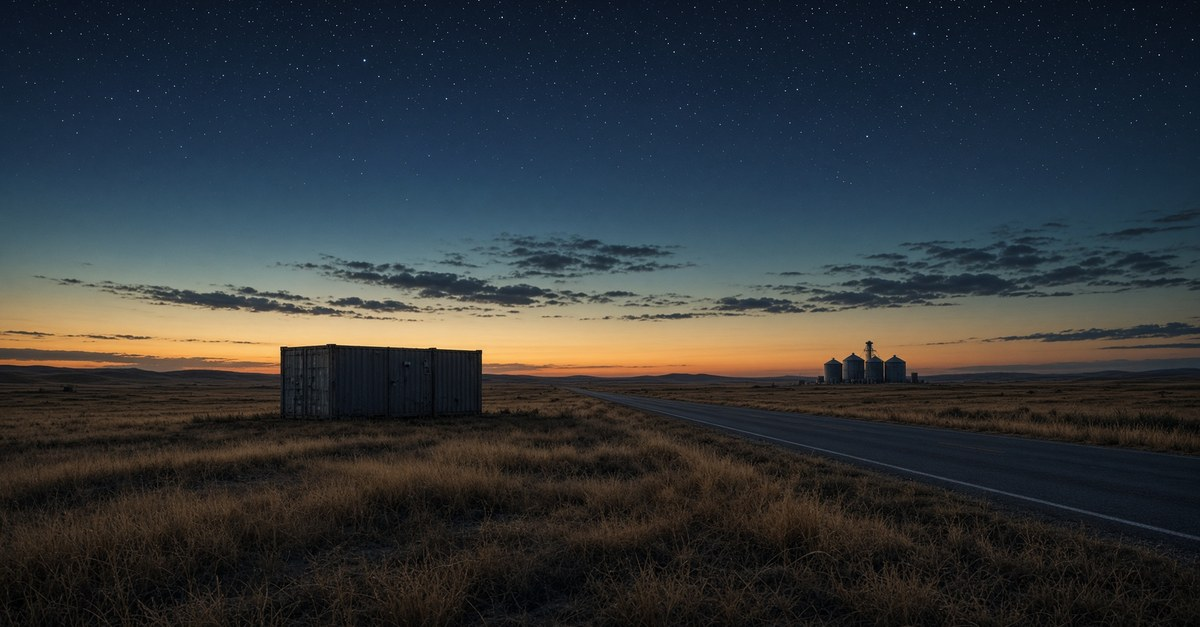
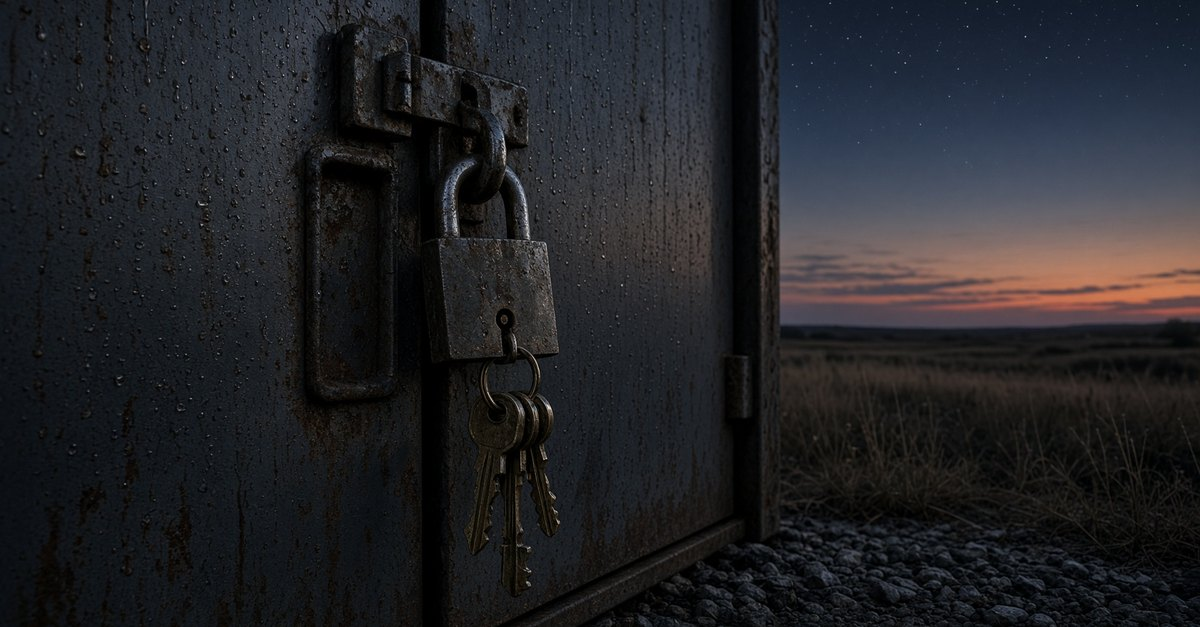
Give each entry its own photograph instead of copying default.jpg
The morning job was cloning the night-prairie fallback onto every new post.
Replace the last three copies, and generate a unique still from the scene
the writer names.

diff --git a/scripts/og.py b/scripts/og.py
@@ -1,32 +1,129 @@
 #!/usr/bin/env python3
-"""Ensure every post has a photograph in public/og. Do not paint type cards.
+"""Give each post its own 1200x627 photograph.
 
-If public/og/{slug}.jpg is missing, copy default.jpg so LinkedIn and the
-index still have an image. Editorial photographs are authored by hand.
+If public/og/{slug}.jpg is missing, or is still a copy of default.jpg,
+fetch a cinematic still from Pollinations using the scene the writer
+emitted (out/latest.json) or the theme's photo line. Crop to OG size.
 """
 
 from __future__ import annotations
 
-import shutil
+import hashlib
+import json
+import re
+import urllib.parse
+import urllib.request
+from io import BytesIO
 from pathlib import Path
+
+from PIL import Image
 
 ROOT = Path(__file__).resolve().parents[1]
 POSTS = ROOT / "src" / "content" / "posts"
 OUT = ROOT / "public" / "og"
 DEFAULT = OUT / "default.jpg"
+LATEST = ROOT / "out" / "latest.json"
+THEMES = ROOT / "themes.json"
+W, H = 1200, 627
+STYLE = (
+    "photoreal cinematic still photograph, 35mm film, no people, no faces, "
+    "no text, no logos, no watermarks, editorial, Oklahoma rural light, quiet"
+)
+
+FALLBACK = {
+    "inclusive-adaptive-capacity": "empty rural clinic waiting room, four teal chairs, reception window, afternoon light through blinds",
+    "sovereignty-tension": "heavy padlock and brass keys on a steel container door, prairie dusk, first stars",
+    "participatory-sensemaking": "empty wood-paneled council room, oval table, papers, a tribal flag in the corner",
+    "one-node-at-a-time": "single dark modular compute container on a gravel pad in an Oklahoma field at sunset",
+    "cost-of-consistency": "locked gray records cabinet and a rubber stamp on a metal desk in a clinic back room",
+    "psychological-safety-as-mediator": "empty hospital conference room, one chair pulled back, light under a closed door",
+    "the-data-moat": "closed lockbox on a pallet in front of a humming server rack inside a container",
+    "equity-centered-flexibility": "empty rural hospital hallway, a gurney against the wall, uneven fluorescent light",
+    "building-from-a-phone": "a phone and a notebook on a kitchen table at night, dark prairie outside the window",
+    "governance-before-compute": "a worn binder of papers on a wooden pallet in front of dark server racks",
+}
+
+
+def digest(path: Path) -> str:
+    return hashlib.sha256(path.read_bytes()).hexdigest()
+
+
+def slug_of(post: Path) -> str:
+    return post.stem
+
+
+def theme_slug(stem: str) -> str:
+    return re.sub(r"^\d{4}-\d{2}-\d{2}-", "", stem)
+
+
+def load_scene(stem: str) -> str:
+    if LATEST.exists():
+        try:
+            data = json.loads(LATEST.read_text())
+            if data.get("slug") == stem and data.get("photo"):
+                return str(data["photo"]).strip()
+        except json.JSONDecodeError:
+            pass
+    if THEMES.exists():
+        try:
+            themes = json.loads(THEMES.read_text()).get("themes", [])
+            want = theme_slug(stem)
+            for t in themes:
+                if t.get("slug") == want and t.get("photo"):
+                    return str(t["photo"]).strip()
+        except json.JSONDecodeError:
+            pass
+    return FALLBACK.get(theme_slug(stem), "shipping container on red Oklahoma dirt under a wide sky")
+
+
+def fit(im: Image.Image) -> Image.Image:
+    im = im.convert("RGB")
+    scale = max(W / im.width, H / im.height)
+    nw, nh = int(im.width * scale + 0.5), int(im.height * scale + 0.5)
+    im = im.resize((nw, nh), Image.Resampling.LANCZOS)
+    left, top = (nw - W) // 2, (nh - H) // 2
+    return im.crop((left, top, left + W, top + H))
+
+
+def fetch(scene: str, seed: int) -> Image.Image | None:
+    prompt = f"{STYLE}. {scene}"
+    url = (
+        "https://image.pollinations.ai/prompt/"
+        + urllib.parse.quote(prompt, safe="")
+        + f"?width={W}&height={H}&nologo=true&model=flux&seed={seed}&enhance=true"
+    )
+    req = urllib.request.Request(url, headers={"User-Agent": "SovereignJournal/1.0"})
+    try:
+        with urllib.request.urlopen(req, timeout=120) as res:
+            data = res.read()
+        if len(data) < 8000:
+            return None
+        return Image.open(BytesIO(data))
+    except Exception as err:
+        print("fetch failed:", err)
+        return None
 
 
 def main() -> None:
     if not DEFAULT.exists():
         raise SystemExit("public/og/default.jpg is required")
     OUT.mkdir(parents=True, exist_ok=True)
+    default_hash = digest(DEFAULT)
     for path in sorted(POSTS.glob("*.md")):
         dest = OUT / f"{path.stem}.jpg"
-        if dest.exists():
+        if dest.exists() and digest(dest) != default_hash:
             print("keep", dest.name)
             continue
-        shutil.copyfile(DEFAULT, dest)
-        print("default", dest.name)
+        scene = load_scene(path.stem)
+        seed = int(hashlib.sha256(path.stem.encode()).hexdigest()[:8], 16)
+        print("make", dest.name, "—", scene)
+        im = fetch(scene, seed)
+        if im is None:
+            dest.write_bytes(DEFAULT.read_bytes())
+            print("default", dest.name)
+            continue
+        fit(im).save(dest, "JPEG", quality=86, optimize=True)
+        print("wrote", dest.name, dest.stat().st_size)
 
 
 if __name__ == "__main__":
